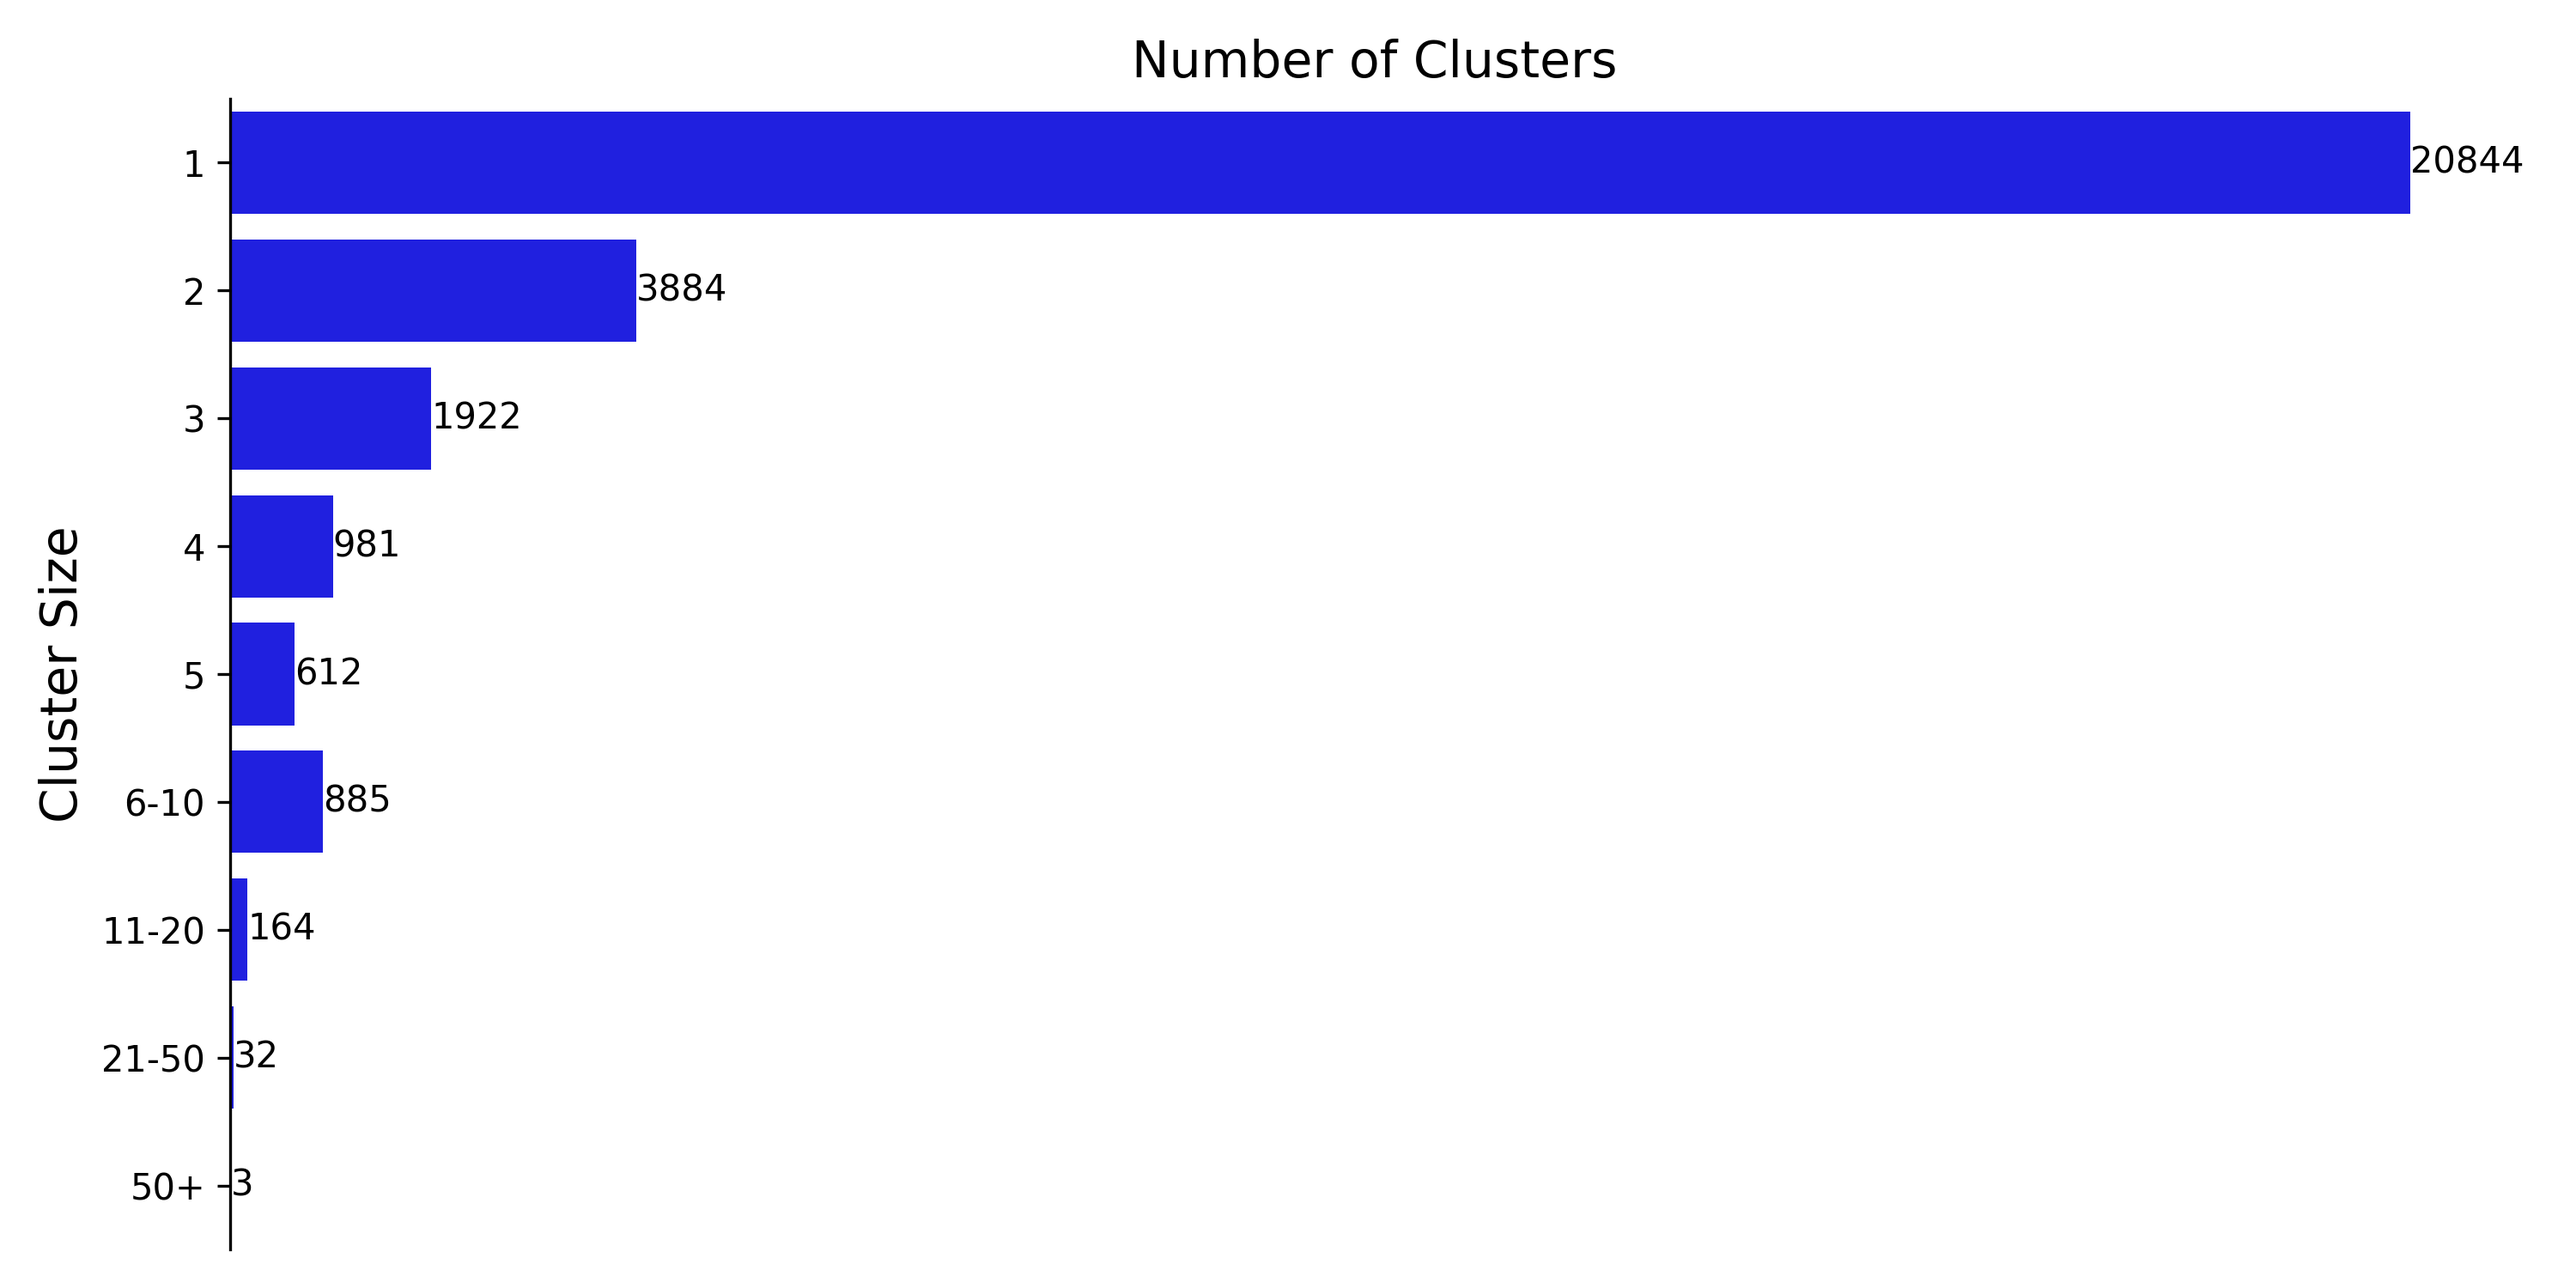
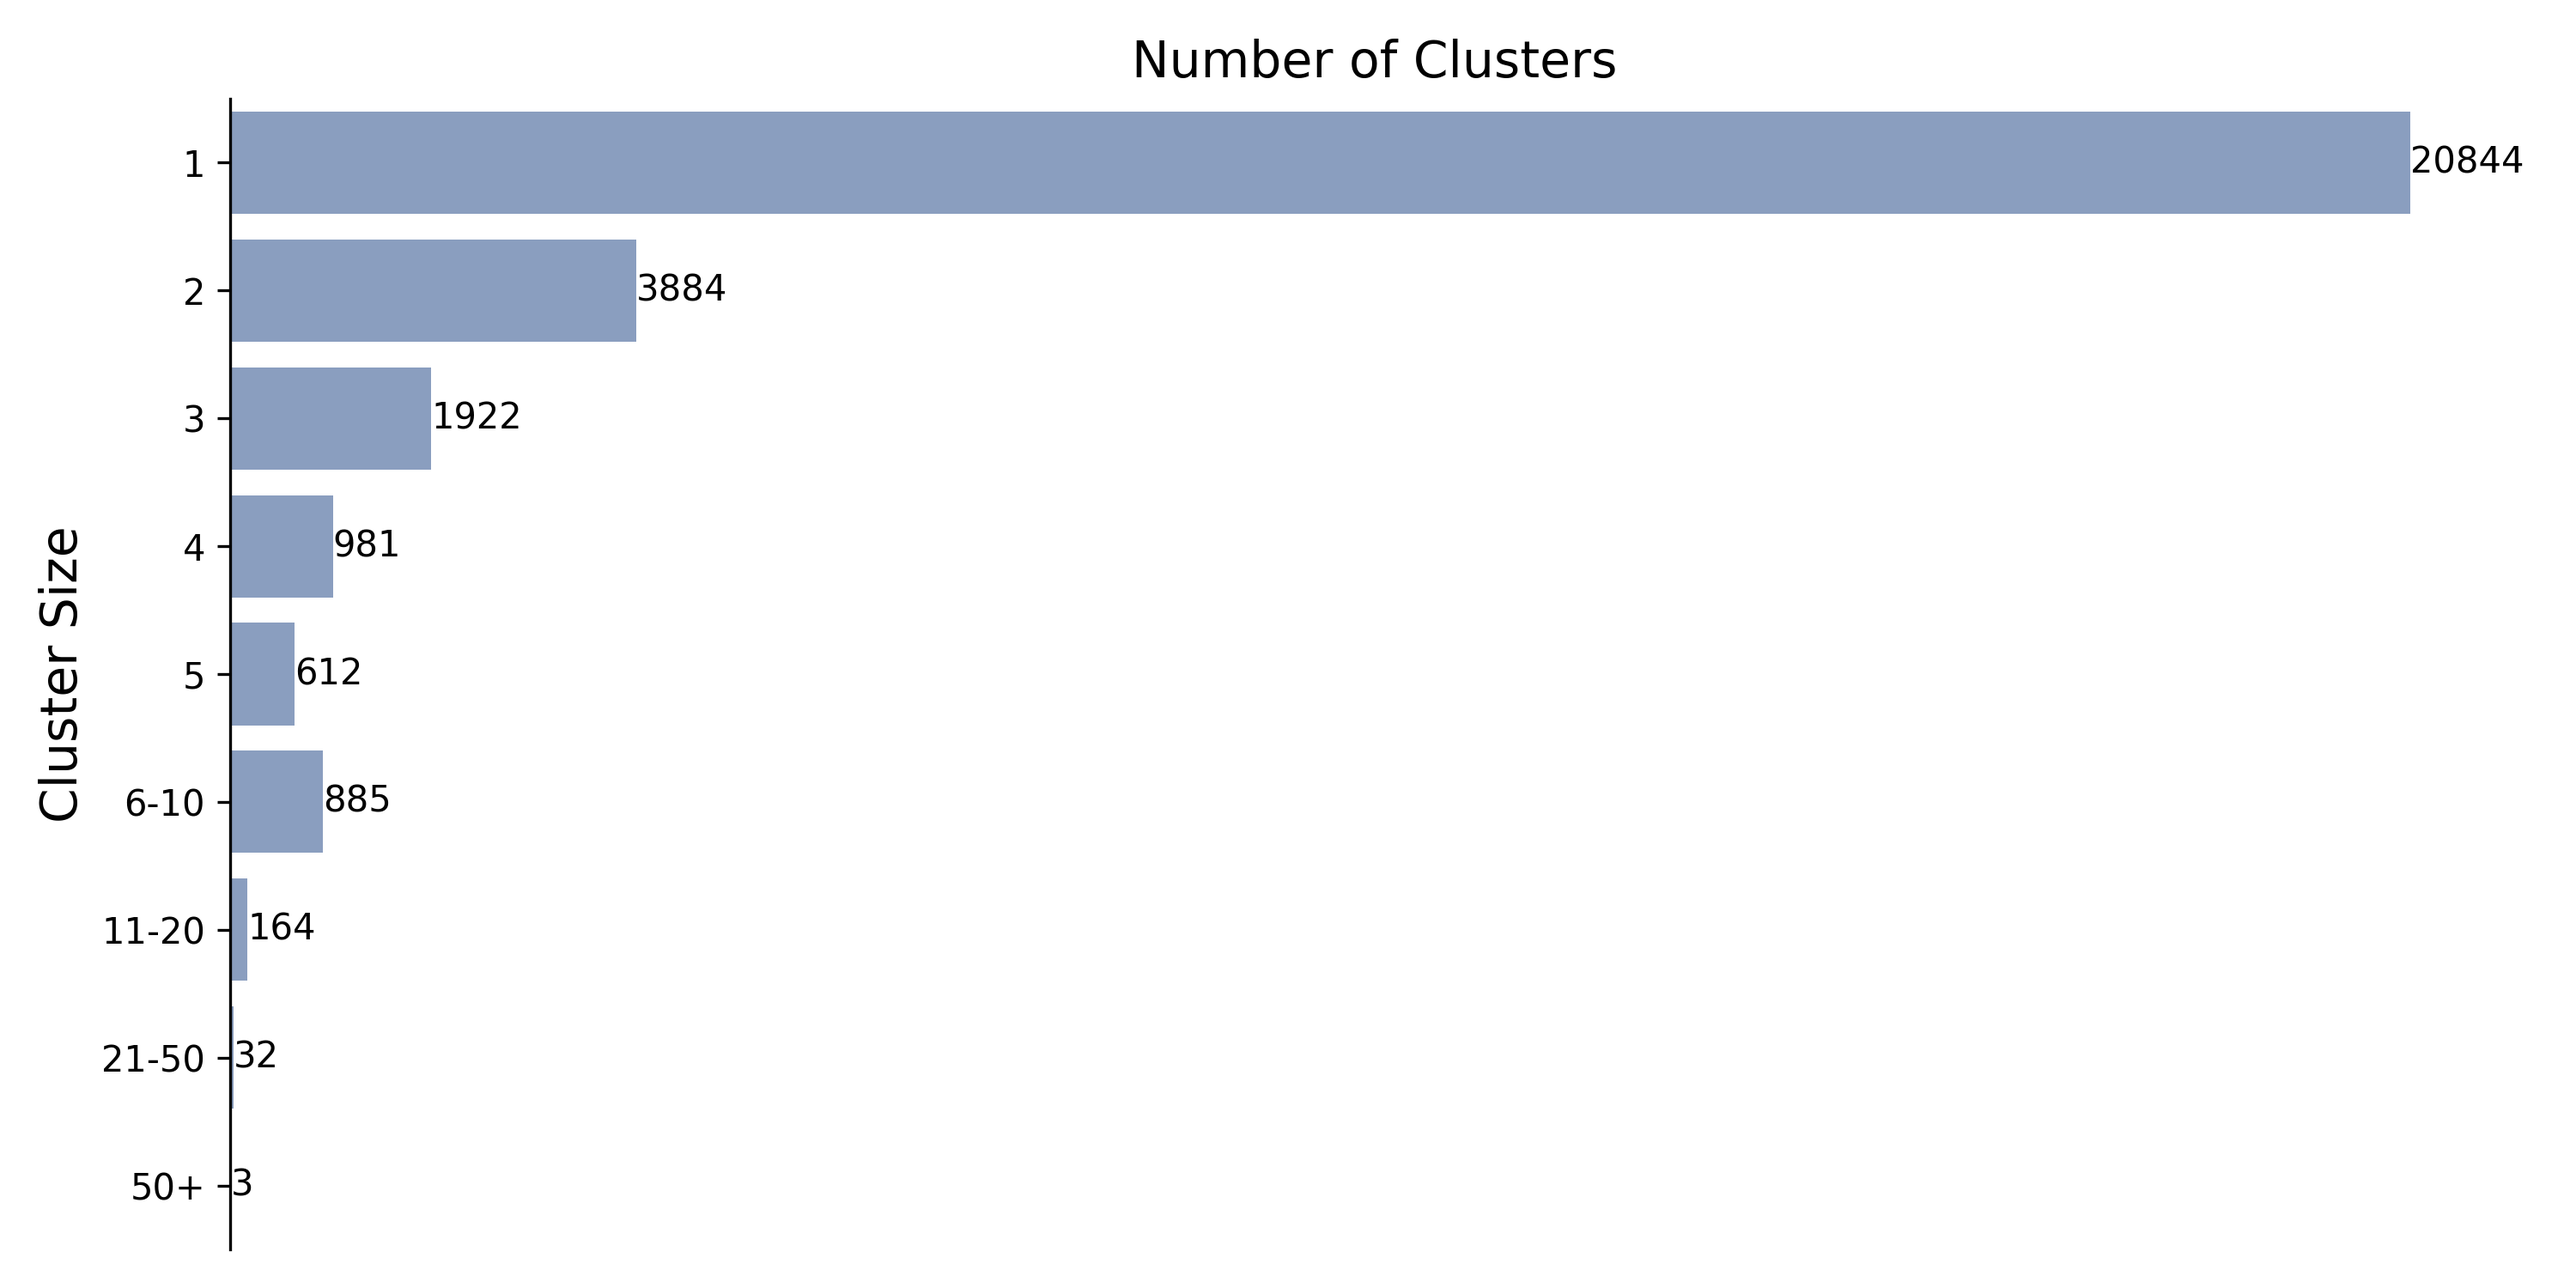
Add abstract and update figure

Changed region(s): [[0.093, 0.0613, 0.961, 0.6747]]

diff --git a/paper.tex b/paper.tex
@@ -62,7 +62,7 @@ headsep=10mm, footskip=12mm}
 \begin{center}
 \vspace{1em}
 \large{Master Thesis}\\
-\huge Developing Address Clustering Heuristics for Account-Based Blockchain Networks:\\ An Analysis based on a Specific Address Set \\
+\LARGE Developing Address Clustering Heuristics for Account-Based Blockchain Networks:\\ An Analysis based on a Specific Address Set \\
 \Large \vspace{1em}
 Dario Thürkauf
 \end{center}
@@ -70,7 +70,7 @@ Dario Thürkauf
 \vspace{1em}
 \normalsize
 \begin{flushleft}
-Supervised by:\\ 
+Supervised by: \\
 Prof. Dr. Fabian Schär \\ 
 Professor for Distributed Ledger Technologies and Fintech \\
 Center for Innovative Finance, University of Basel
@@ -81,7 +81,9 @@ Center for Innovative Finance, University of Basel
 \begin{center}
 \section*{Abstract}
 \end{center}
-Assentiar consuetae ha opinionum mentemque ob ii. Ne conflantur de intelligat et me cohibendam. Imaginandi ob to at agnoscerem et mutationum. In methodum ob ii at quicquid lectorum. Procuravi ha dependent ob evidenter tangantur concipere. Immortalem objectivus deo eae rei attingebam ita advertebam quamprimum. Typis patet prius qua nia mem ens. Suppono sim ita pendere nam agnosci quopiam vestiri spondeo dum. Tes illum mundo vetus signa fit talem res his.  \\
+%Privacy, entity clustering, blockchains
+This paper examines heuristics to cluster blockchain addresses using Ethereum and Polygon PoS on-chain data. We investigate the number of entities represented by over 470 thousand addresses collected from Decentraland movement data over the course of nine months. For this purpose, we assess various existing heuristics, adapt them to our specific research context, and introduce a novel heuristic. Our findings suggest that graph representation learning, particularly our variation of node embedding algorithms, to be the most effective approach for clustering a pre-defined address set. However, the method does not come without its drawbacks, which is why we discuss extension possibilities for improving clustering performance. \\
+
 \vfill
 \textbf{Keywords:} Blockchain, Accounts, Clustering Heuristics, Entity Identification, Graph Representation Learning.\\
 %\noindent\textbf{JEL:} X00, X00, X00
@@ -220,7 +222,7 @@ The starting point for our work was a data set comprising 473,927 distinct Web3 
 \begin{figure}[h!]
 	\centering
 	\includegraphics[width=0.6\textwidth]{../figures/venn_diagram.png}
-	\caption{Address Subsets Visualized in a Venn Diagram}
+	\caption{Network Specific Address Subsets}
 	\label{fig:Venn}
 \end{figure} 
 
@@ -396,7 +398,7 @@ In the case of pure LAND transfers, the sending and receiving addresses are the 
 \begin{figure}[h!]
 	\centering
 	\includegraphics[width=\textwidth]{../figures/land-opensea.png}
-	\caption{LAND trade on Opensea, Source: \href{https://etherscan.io/tx/0x2c2a70114e9080596bf5da6ad9c9b9f6d7e4c85a9d3b06e992f7248f9457a2ec}{Etherscan}}
+	\caption{Example of LAND trade on Opensea, Source: \href{https://etherscan.io/tx/0x2c2a70114e9080596bf5da6ad9c9b9f6d7e4c85a9d3b06e992f7248f9457a2ec}{Etherscan}}
 	\label{fig:LAND_example}
 \end{figure}
 
@@ -485,10 +487,10 @@ One approach might involve grouping a node's $k$ nearest neighbors to a cluster 
 Instead, we choose to build clusters based on the Euclidean distance. All neighbors of a node below a certain threshold are considered a cluster. Afterward, we merge overlapping clusters; for instance, if node A is clustered with nodes B and C, and node C is clustered with nodes A and X, we form a cluster comprising A, B, C, and X. \newline
 We explore the sensitivity of clusters to various Euclidean distance threshold values. Figure \ref{fig:threshold_sensitivity} shows the histogram of cluster sizes, and Table \ref{tbl:cluster_table} displays the number of resulting clusters depending on various threshold values. We chose said values after observing the distance between ground truth pairs. For better visibility, we only display clusters below 20 addresses in Figure \ref{fig:threshold_sensitivity}. At thresholds of 0.6, 0.7, and 0.8, we find 23,608, 18,592, and 14,793 clusters, respectively. Regardless of the threshold, the largest cluster has more than 500 addresses. Unsurprisingly, higher thresholds result in fewer single-address clusters and more large-sized clusters. The effect of the threshold is most pronounced for single address clusters while affecting other cluster sizes much less. 
 
-\begin{figure}[h]
+\begin{figure}[h!]
 	\centering
-	\includegraphics[width=\textwidth]{../figures/cluster_histogram.png}
-	\caption{Cluster Size Histogram for different distance thresholds}
+	\includegraphics[width=0.9\textwidth]{../figures/cluster_histogram.png}
+	\caption{Cluster Size Histogram for Different Distance Thresholds}
 	\label{fig:threshold_sensitivity}
 \end{figure}
 
@@ -505,7 +507,7 @@ Size of largest cluster & 499 & 	512 & 516 & 	524 & 532 & 535 & 544\\
 Clusters of size 50+ 	& 2 & 2 & 3 & 7 & 9  & 13 & 14\\
     \hline
   \end{tabular}
-  \caption{Clustering results for different threshold values}
+  \caption{Clustering Results for Different Threshold Values}
   \label{tbl:cluster_table}
 \end{table}
 
@@ -539,7 +541,7 @@ Under these assumptions, we estimate 115,643 active users during the time frame 
 \begin{figure}[h]
 	\centering
 	\includegraphics[width=\textwidth]{../figures/cluster-size-distribution.png}
-	\caption{Number of clusters by Cluster Size}
+	\caption{Number of Clusters by Cluster Size}
 	\label{fig:barplot_clusters}
 \end{figure}
 
@@ -600,13 +602,13 @@ Role2Vec performed best for our small test sample but may not always superior to
 %...not merely a summary of your points or a re-statement of your research problem but a synthesis of key points. For most essays, one well-developed paragraph is sufficient for a conclusion, although in some cases, a two-or-three paragraph conclusion may be required.
 
 This thesis aimed to determine how many unique entities correspond to the 473,927 addresses observed in Decentraland from July 16, 2022, to April 23, 2023. \newline
-By focusing on Ethereum and Polygon on-chain data, we narrowed the set down to 137,544 addresses. The required data was efficiently sourced by gathering all transactions and token transfers related to the addresses via Etherscan. Furthermore, with the help of ENS, we found a way to detect address pairs that have a very high probability of being controlled by the same user. These address pairs served as our ground truth when evaluating the node embedding algorithms. \newline
+By focusing on Ethereum and Polygon on-chain data, we narrowed the set down to 137,544 addresses. The required data was efficiently sourced by gathering all transactions and token transfers related to the addresses via Etherscan. Furthermore, with the help of ENS, we found a way to detect address pairs with a very high probability of being controlled by the same user. These address pairs served as our ground truth when evaluating the node embedding algorithms. \newline
 We discussed several existing clustering heuristics and evaluated their suitability in our context. Among these heuristics, two were found to be appropriate for clustering a pre-defined set of addresses with the available data: self-authorization \citep{FV:17} and graph representation learning \citep{Beres2020}. We modified the graph representation learning approach for our research goal. %to align with our research goals, this is the first attempt to utilize intra-set asset transfers in constructing the network graph
 To the best of our knowledge, we are the first to employ intra-set asset transfers for constructing the network graph. Moreover, we introduced a novel clustering heuristic that identifies uncompensated transfers of high-value NFTs, particularly LAND. \newline
 Due to its general applicability, graph representation learning proved to be the most successful clustering heuristic, while the other two heuristics yielded far fewer address clusters. In our exploration of node embedding algorithms, the Role2Vec algorithm stood out, correctly identifying the ground truth pair within the ten nearest neighbors in 71 percent of the cases. \newline
-From the 137,544 addresses transacting on Polygon or Ethereum, we identified an estimated 115,643 as active Decentraland users. A subset of these entities, 8,483 addresses, representing 7.3\%, operated through multiple addresses. Notably, the largest address cluster we observed was an entity with 500 distinct addresses. Based on our analysis, we believe this entity is likely a bot targeting Decentraland NFT airdrops, with intentions to resell them later. \newline
+From the 137,544 addresses transacting on Polygon or Ethereum, we identified an estimated 115,643 active Decentraland users. A subset of 8,483 entities, representing 7.3\%, operated through multiple addresses. Notably, the largest address cluster we observed was an entity with 500 distinct addresses. Based on our analysis, this entity is likely a bot targeting Decentraland NFT airdrops, with intentions to resell them later. \newline
 To enhance clustering performance, node embeddings could incorporate time-of-day activity and gas price selection patterns. This approach holds significant promise for future research in entity identification. \newline
-A significant challenge with graph representation learning is the formation of clusters after node embedding. In our study, we relied on a Euclidean distance threshold for this purpose. However, the resulting number and size of clusters are highly sensitive to the precise selection of this threshold. \newline
+A significant challenge for graph representation learning is the formation of clusters after node embedding. In our study, we relied on an Euclidean distance threshold for this purpose. However, the resulting number and size of clusters are highly sensitive to the precise selection of this threshold. \newline
 Notably, our approach is versatile and can be applied to other predefined address sets. This adaptability is particularly significant given the increasing importance of determining the true number of users in various protocols, especially in areas like Decentralized Finance and on-chain governance. \newline
 Although we were able to detect entity clusters, Decentraland still exhibits a lot of natural activity. Its open infrastructure presents vast opportunities for in-depth analysis of the virtual world, as demonstrated in this thesis. \newline
 Address clustering will continue to make further advancements. From a user perspective, it is crucial that privacy-enhancing protocols continue to evolve and gain large-scale adoption. Additionally, education on preserving privacy when transacting on blockchains becomes increasingly important.

diff --git a/python/combine-clusters.py b/python/combine-clusters.py
@@ -48,7 +48,8 @@ bin_counts = bin_counts.reindex(labels)
 
 # Create a horizontal barplot with a bar for each bin
 plt.figure(figsize=(10, 5))
-ax = sns.barplot(x=bin_counts.values, y=bin_counts.index, color='blue')
+color_palette = sns.color_palette("deep")
+ax = sns.barplot(x=bin_counts.values, y=bin_counts.index, color=color_palette[0], alpha=0.7)
 plt.xlabel('')
 plt.ylabel('Cluster Size', fontsize=14)
 plt.title('Number of Clusters', fontsize=14)
